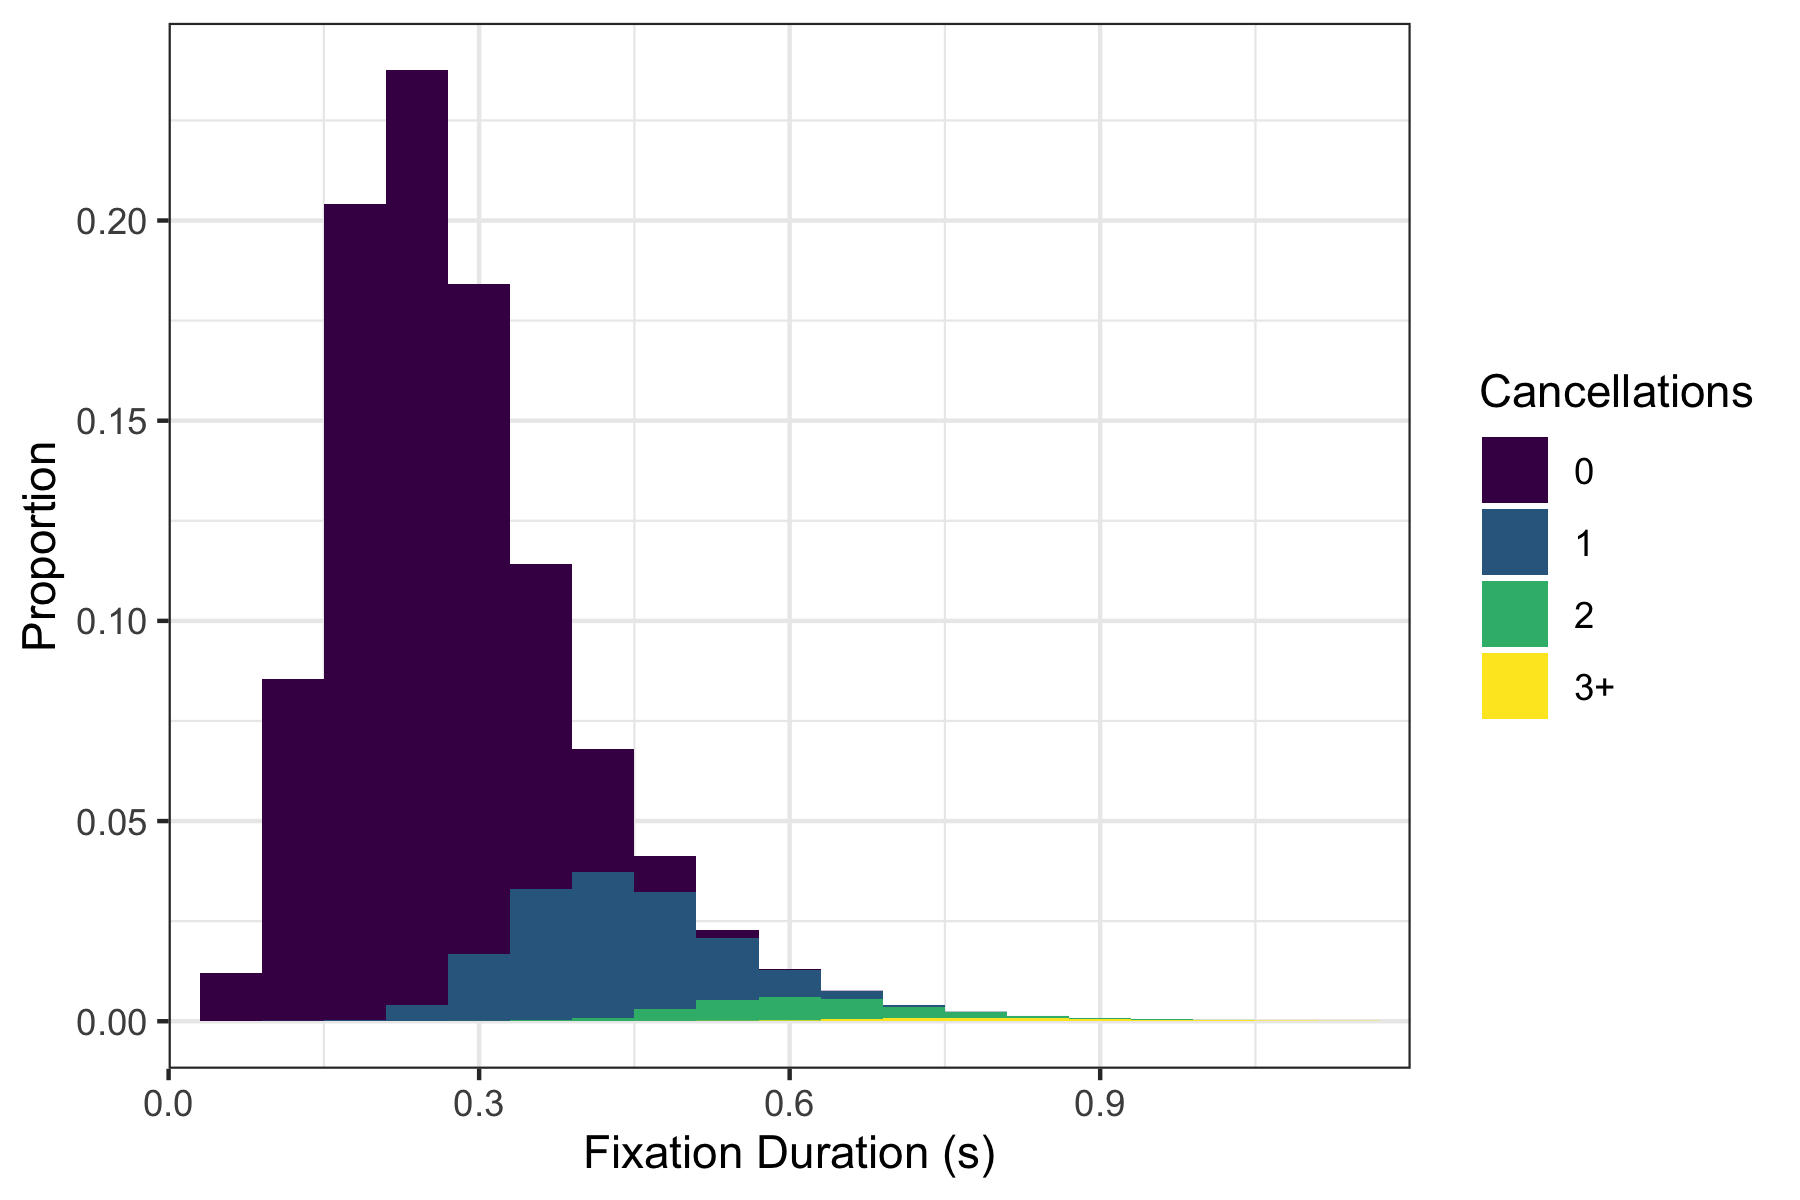
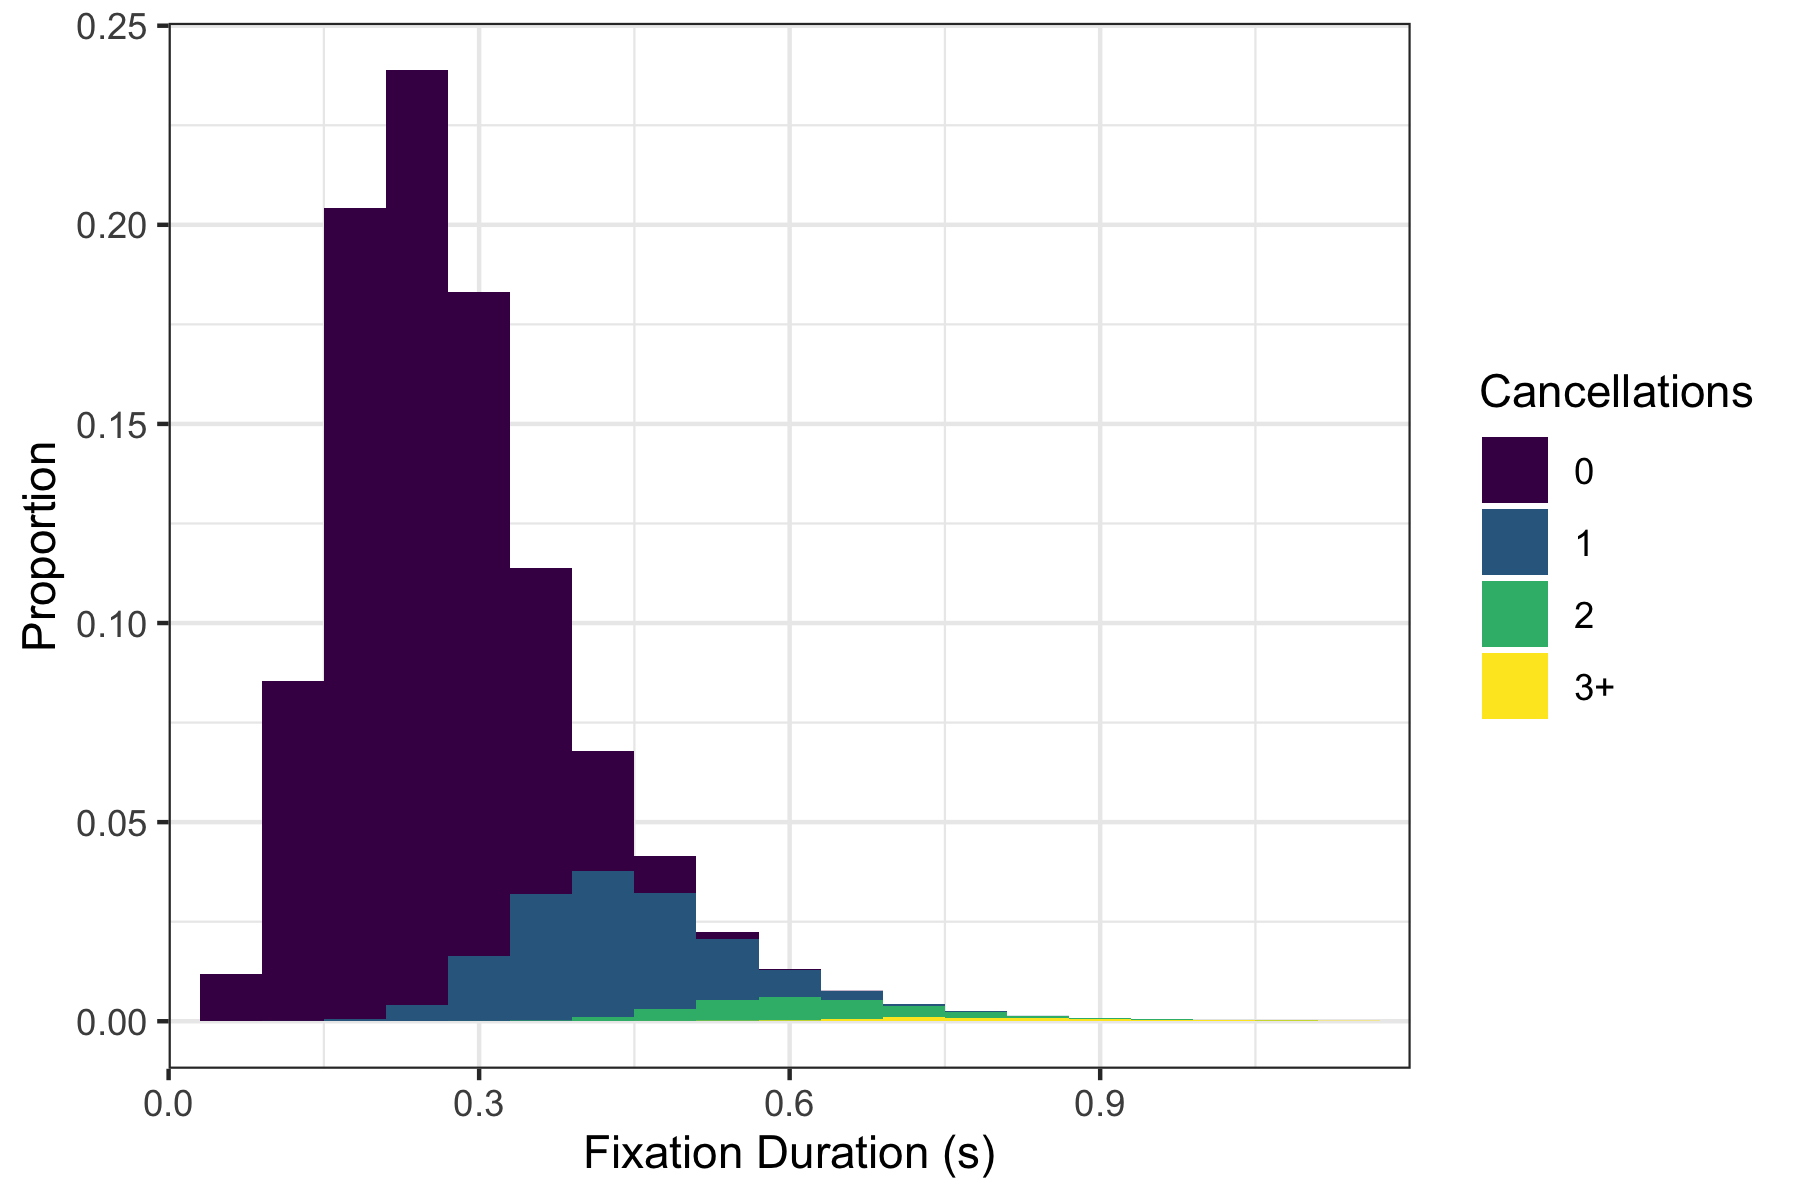
added demo to README.md

diff --git a/README.md b/README.md
@@ -3,4 +3,346 @@ A model of fixation durations during mind-wandering.
 
 
  - `UCM.R`: utility functions for simulating the UCM of fixation duratinos
- - `UCM-demo.R`: a demonstration of how to use the functions in `UCM.R`
+ - `UCM-demo.R`: a demonstration of how to use the functions in `UCM.R`, shown below:
+
+
+# Simulating fixation durations with the UCM model in R
+
+## Introduction
+
+This file demonstrates how to use the UCM model contained in the file
+`UCM.R`. This implementation of the model was written with the `simmer`
+package in `R`, which is a discrete event simulator. First, let’s load
+some packages, load the source code for the UCM utility functions, and
+set a seed so that our results are reproducible:
+
+``` r
+library(simmer)
+library(dplyr)
+library(tidyr)
+library(ggplot2)
+library(parallel)
+library(viridis)
+
+## Load the UCM source code
+source('UCM.R')
+set.seed(1234)
+```
+
+## Simulating a single trial using UCM
+
+First, we can run UCM for five seconds with the default parameter
+settings:
+
+``` r
+ucm <- UCM() %>%
+    run(until=5)
+
+ucm
+```
+
+    ## simmer environment: anonymous | now: 5 | next: 5.0138453616531
+    ## { Monitor: in memory }
+    ## { Source: init. | monitored: 1 | n_generated: 1 }
+    ## { Source: timer. | monitored: 2 | n_generated: 21 }
+    ## { Source: labile. | monitored: 2 | n_generated: 20 }
+    ## { Source: nonlabile. | monitored: 2 | n_generated: 16 }
+    ## { Source: motor. | monitored: 2 | n_generated: 16 }
+    ## { Source: execution. | monitored: 2 | n_generated: 16 }
+    ## { Source: fixation. | monitored: 2 | n_generated: 16 }
+
+As we can see, the current time of the simulator (now) is now 5 seconds,
+and the next event occurs at 5.01 seconds. This output also tells us
+that the timer has cycled 21 times, 20 of which made it to the labile
+stage, and 16 of which continued to saccade execution.
+
+To get more detailed information, we can use the function `get_states`,
+which returns a dataframe detailing the time of every state transition
+in the model. The `stage` column tells us whether the transition
+happened in the timer, the labile stage, the non-labile stage, the motor
+planning stage, or saccade execution. The `n` column tells you how many
+walks completed this stage at this point in time, and the `id` column is
+a unique identifier linking random walks between stages. The `state`
+column tells us which state the model transitioned to at that point in
+time (from 0 to N-1), and `cum_state` carries the same information
+except that each stage starts a state above the previous stage, which is
+useful for plotting. Finally, the `replication` column tells us which
+instance of the UCM this state transition pertains to. Since we only ran
+one instance, `replication` is always 1.
+
+``` r
+get_states(ucm)
+```
+
+    ## # A tibble: 1,240 x 7
+    ##      time stage n     replication state cum_state    id
+    ##     <dbl> <fct> <chr>       <int> <dbl>     <dbl> <dbl>
+    ##  1 0      timer 0               1     0         0     1
+    ##  2 0.0447 timer 0               1     1         1     1
+    ##  3 0.0491 timer 0               1     2         2     1
+    ##  4 0.0492 timer 0               1     3         3     1
+    ##  5 0.0803 timer 0               1     4         4     1
+    ##  6 0.0872 timer 0               1     5         5     1
+    ##  7 0.0888 timer 0               1     6         6     1
+    ##  8 0.104  timer 0               1     7         7     1
+    ##  9 0.107  timer 0               1     8         8     1
+    ## 10 0.122  timer 0               1     9         9     1
+    ## # … with 1,230 more rows
+
+To get information about the model’s simulated fixations, we can use the
+function `get_fixations`. The `id`, `n`, and `replication` columns are
+the same as before. We also have columns telling us the `start_time`,
+the `end_time`, and the `duration` of every fixation the model has made.
+
+``` r
+get_fixations(ucm)
+```
+
+    ## # A tibble: 15 x 6
+    ##       id n     replication start_time end_time duration
+    ##    <dbl> <chr>       <int>      <dbl>    <dbl>    <dbl>
+    ##  1     1 0               1      0.568     1.01   0.437 
+    ##  2     3 1               1      1.03      1.22   0.189 
+    ##  3     4 2               1      1.24      1.62   0.379 
+    ##  4     7 3               1      1.64      1.95   0.305 
+    ##  5     8 4               1      1.97      2.19   0.220 
+    ##  6     9 5               1      2.21      2.30   0.0942
+    ##  7    10 6               1      2.32      2.69   0.369 
+    ##  8    11 7               1      2.71      3.10   0.389 
+    ##  9    12 8               1      3.12      3.23   0.116 
+    ## 10    13 9               1      3.25      3.55   0.297 
+    ## 11    14 10              1      3.56      3.77   0.207 
+    ## 12    15 11              1      3.79      4.06   0.268 
+    ## 13    16 12              1      4.07      4.32   0.248 
+    ## 14    17 13              1      4.34      4.53   0.189 
+    ## 15    18 14              1      4.55      4.77   0.221
+
+To get information about which saccade program cancellation, we can use
+the function `get_cancellations`. The `id` and `replication` columns are
+the same as before. The `cancelled` column tells us whether the saccade
+program with this `id` was cancelled (1) or not (0). Finally,
+`n_cancellations` tells us how many saccade programs were cancelled
+during the fixation with this `id`. `n_cancellations` is 0 for all
+cancelled saccade programs.
+
+``` r
+get_cancellations(ucm)
+```
+
+    ## # A tibble: 20 x 4
+    ##       id replication cancelled n_cancellations
+    ##    <dbl>       <int>     <dbl>           <dbl>
+    ##  1     1           1         0               1
+    ##  2     2           1         1               0
+    ##  3     3           1         0               0
+    ##  4     4           1         0               2
+    ##  5     5           1         1               0
+    ##  6     6           1         1               0
+    ##  7     7           1         0               0
+    ##  8     8           1         0               0
+    ##  9     9           1         0               0
+    ## 10    10           1         0               0
+    ## 11    11           1         0               0
+    ## 12    12           1         0               0
+    ## 13    13           1         0               0
+    ## 14    14           1         0               0
+    ## 15    15           1         0               0
+    ## 16    16           1         0               0
+    ## 17    17           1         0               0
+    ## 18    18           1         0               0
+    ## 19    19           1         0               0
+    ## 20    20           1         0               0
+
+We can also easily get a nifty plot of the UCM’s state through time:
+
+``` r
+trace_plot(ucm)
+ggsave('plots/UCM-trace.png', width=10, height=3)
+```
+
+<img src="demo/trace_plot-1.png" style="display: block; margin: auto;" />
+
+## Custom parameter settings
+
+We’re also not limited to the default parameter settings. We can set
+custom parameters like so:
+
+``` r
+ucm <- UCM(N_timer=15, t_timer=.3,
+           N_labile=20, t_labile=.2,
+           N_nonlabile=20, t_nonlabile=.05,
+           N_motor=30, t_motor=.02,
+           N_execution=30, t_execution=.015) %>%
+    run(until=5)
+
+trace_plot(ucm)
+```
+
+<img src="demo/custom_parameters-1.png" style="display: block; margin: auto;" />
+
+## Simulating many trials in parallel
+
+Thankfully, `simmer` makes it easy to run multiple instances of the
+`UCM` in parallel with the function `parallel::mcapply`. Depending on
+how many cores you have on your machine, though, this could take a
+minute or two. Also note that we need to use the `wrap` function, which
+ensures that our simulation data is available after the parallel
+processes are complete.
+
+``` r
+## set the number of cores
+options(mc.cores=parallel::detectCores())
+
+## run 1000 trials, each lasting 30s, in parallel
+ucms <- mclapply(1:1000, function (i) {
+    UCM() %>%
+        run(until=30) %>%
+        wrap()
+})
+
+head(ucms, n=3)
+```
+
+    ## [[1]]
+    ## simmer environment: anonymous | now: 30 | next: 30.0124229645319
+    ## { Monitor:  }
+    ## { Source: init. | monitored: 1 | n_generated: 1 }
+    ## { Source: timer. | monitored: 2 | n_generated: 122 }
+    ## { Source: labile. | monitored: 2 | n_generated: 121 }
+    ## { Source: nonlabile. | monitored: 2 | n_generated: 102 }
+    ## { Source: motor. | monitored: 2 | n_generated: 102 }
+    ## { Source: execution. | monitored: 2 | n_generated: 102 }
+    ## { Source: fixation. | monitored: 2 | n_generated: 102 }
+    ## 
+    ## [[2]]
+    ## simmer environment: anonymous | now: 30 | next: 30.0009293520853
+    ## { Monitor:  }
+    ## { Source: init. | monitored: 1 | n_generated: 1 }
+    ## { Source: timer. | monitored: 2 | n_generated: 121 }
+    ## { Source: labile. | monitored: 2 | n_generated: 120 }
+    ## { Source: nonlabile. | monitored: 2 | n_generated: 95 }
+    ## { Source: motor. | monitored: 2 | n_generated: 95 }
+    ## { Source: execution. | monitored: 2 | n_generated: 94 }
+    ## { Source: fixation. | monitored: 2 | n_generated: 94 }
+    ## 
+    ## [[3]]
+    ## simmer environment: anonymous | now: 30 | next: 30.0065443194519
+    ## { Monitor:  }
+    ## { Source: init. | monitored: 1 | n_generated: 1 }
+    ## { Source: timer. | monitored: 2 | n_generated: 123 }
+    ## { Source: labile. | monitored: 2 | n_generated: 122 }
+    ## { Source: nonlabile. | monitored: 2 | n_generated: 94 }
+    ## { Source: motor. | monitored: 2 | n_generated: 94 }
+    ## { Source: execution. | monitored: 2 | n_generated: 94 }
+    ## { Source: fixation. | monitored: 2 | n_generated: 94 }
+
+As you can see, `ucms` is a list containg 1000 instances of the UCM. We
+can use the same functions as before on this list to, say, make a
+histogram of fixation durations as a function of the number of
+cancellations within the fixation:
+
+``` r
+get_fixations(ucms) %>%
+    left_join(get_cancellations(ucms)) %>%
+    filter(duration <= 1.2) %>%
+    mutate(n_cancellations=factor(pmin(n_cancellations, 3),
+                                  labels=c('0', '1', '2', '3+'))) %>%
+    ggplot(aes(x=duration, group=n_cancellations, fill=factor(n_cancellations))) +
+    scale_fill_viridis(name='Cancellations', discrete=TRUE) +
+    geom_histogram(aes(y=after_stat(count / sum(count))), binwidth=0.06) +
+    scale_x_continuous(limits=c(0, 1.2), expand=c(0, 0)) +
+    xlab('Fixation Duration (s)') + ylab('Proportion') +
+    theme_bw()
+ggsave('plots/UCM-cancellations.png', width=6, height=4)
+```
+
+<img src="demo/cancellation_hist-1.png" style="display: block; margin: auto;" />
+
+## Local Rate Modulation
+
+Since `UCM` is implemented with the `simmer` package, it is painless to
+add more events to our simulator. One useful example is in local rate
+modulation, where you want to speed up or slow down the random walks of
+the timer, the labile stage, and the non-labile stage for some period of
+time. To do so, we first need to define a `simmer` trajectory which
+specifies when and how long to modulate the walk rate. The UCM responds
+to the global attribute `"modulation"`, which can be modified using the
+`simmer` command `set_global`. For instance, the following code says
+that we want to reduce the rate by a factor of 4 for a duration of five
+seconds, then resume at the normal rate:
+
+``` r
+modulation <- trajectory() %>%
+    set_global("modulation", 0.25) %>%
+    timeout(5) %>%
+    set_global("modulation", 1)
+```
+
+Next, we can run the UCM as before, but this time we add a `simmer`
+generator for our modulation trajectory, starting at five seconds.
+Including the argument `mon=2` tells `simmer` to log the modulation
+events we defined above in case we need it for later.
+
+``` r
+ucm <- UCM() %>%
+    add_generator('mod.', modulation, at(5), mon=2) %>%
+    run(until=15)
+```
+
+To demonstrate how this alters the model’s behavior, we can make a trace
+plot as before, adding a shaded area to highlight the period of
+modulation:
+
+``` r
+trace_plot(ucm) +
+    geom_rect(aes(xmin=5, xmax=10, ymin=-Inf, ymax=Inf, fill='modulation'),
+              data=data.frame(), inherit.aes=FALSE, alpha=0.5, show.legend=FALSE)
+ggsave('plots/UCM-local-modulation.png', width=10, height=3)
+```
+
+<img src="demo/modulation_plot-1.png" style="display: block; margin: auto;" />
+
+## Local Cancellation
+
+The other major case where we need to augment the simulator with
+additional information is when we want to model local cancellation of
+saccade programs, for instance when a stimulus disappears for a
+duration. To model this, we can create a trajectory which logs the state
+of the stimulus using the global attribute `"stimulus"` (1 is on and 0
+is off). Then to make the appearance and disappearance of the stimulus
+cancel any labile saccade programs, we can use the `simmer` command
+`send('cancel-labile')`, which broadcasts a signal that saccade programs
+in the labile stage listen to:
+
+``` r
+stimulus <- trajectory() %>%
+    set_global("stimulus", 0) %>% ## turn off the stimulus
+    send('cancel-labile') %>%     ## cancel any labile programs
+    timeout(1) %>%
+    set_global("stimulus", 1) %>% ## turn on the stimulus
+    send('cancel-labile')         ## cancel any labile programs
+```
+
+Then as before, we simply create an instance of the UCM, add a generator
+to initialize the starting state of the stimulus to on, add a generator
+to turn off the stimulus after two seconds, and run the model:
+
+``` r
+ucm <- UCM() %>%
+    add_generator('stim.', trajectory() %>% set_global('stimulus', 1), at(0)) %>%
+    add_generator('stim-off.', stimulus, at(2), mon=2) %>%
+    run(until=5)
+
+trace_plot(ucm) +
+    geom_rect(aes(xmin=2, xmax=3, ymin=-Inf, ymax=Inf, fill='modulation'),
+              data=data.frame(), inherit.aes=FALSE, alpha=0.5, show.legend=FALSE)
+ggsave('plots/UCM-local-cancellation.png', width=10, height=3)
+```
+
+<img src="demo/local_cancellation-1.png" style="display: block; margin: auto;" />
+
+## Conclusions
+
+Hopefully this gives you a good idea of how to simulate fixation
+durations using the UCM model. If you have any questions, feel free to
+reach out at <kevin.oneill@duke.edu>.
